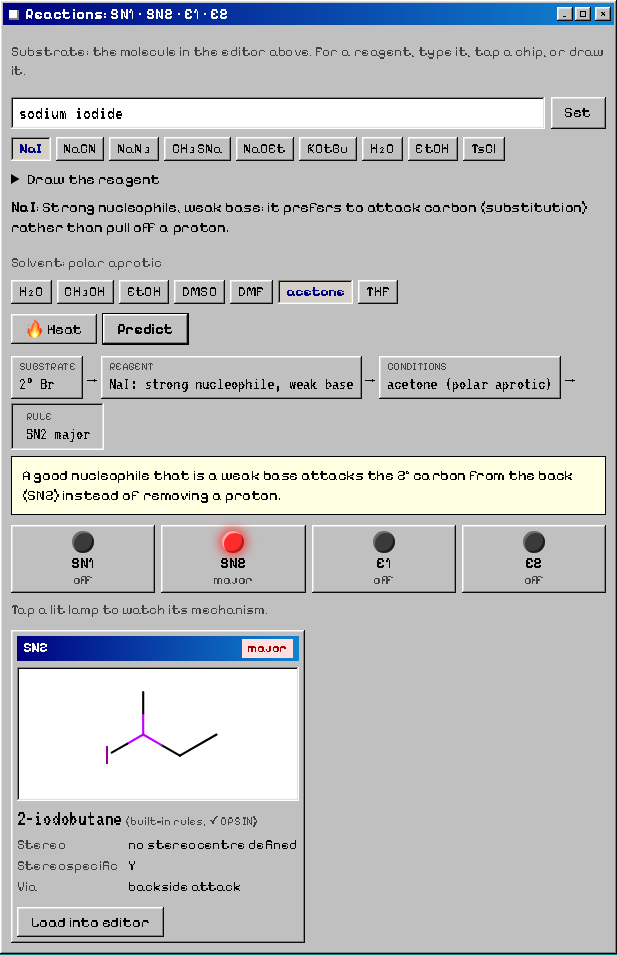
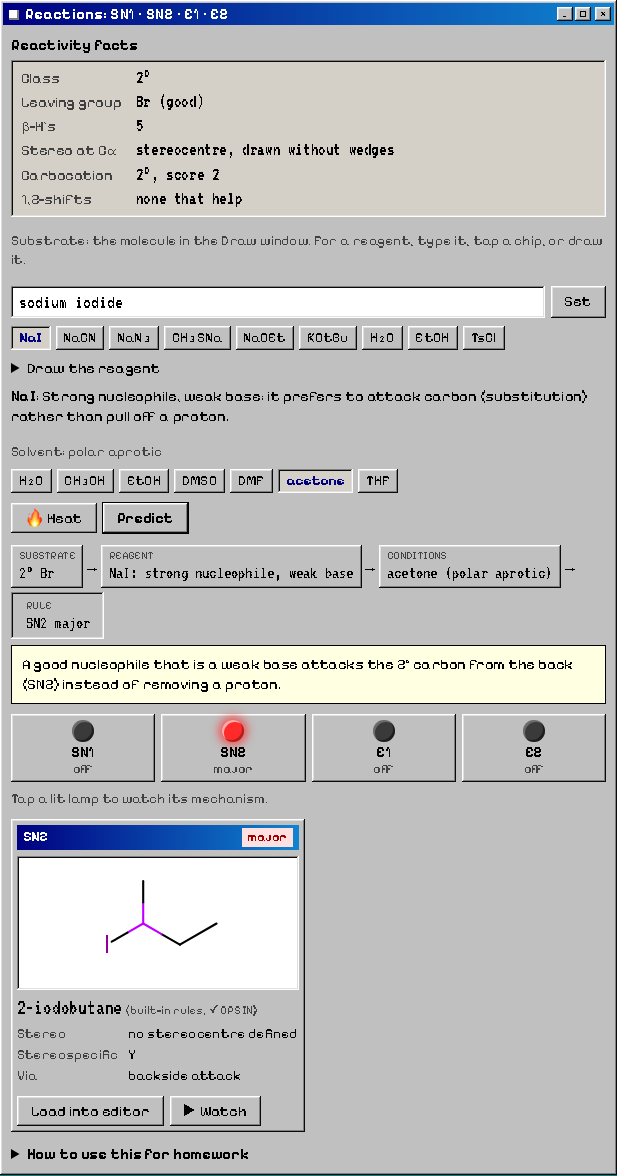
Give Reactions its own tab; add per-card Watch and a worksheet guide
Peter had to scroll past the name and viewer windows to reach the Reactions
window. A Molecule | Reactions tab now shows the Draw window next to the
Reactions window, and #reactions links straight there. The editor is shared,
so the substrate stays the same when switching tabs. Reactivity facts moved
into the Reactions window, because the Name card is hidden on that tab.

Harder worksheet problems (4, 5) give several products from one pathway (no
shift, methyl shift, ring expansion), but the lamp only opened the first.
Each result card now has a Watch button that opens its own pathway. That is
the hook Session 3's SN1/E1/E2 templates need.

docs/worksheet-guide.md says how to solve each worksheet problem with the
app, and the plan gains Session 3 prep notes: missing renderer features,
seed rows waiting on the answer key, and an open question for Peter about
ranking the problem 4 ethers.

Changed region(s): [[0.0, 0.0, 1.0, 1.0], [0.7391, 0.334, 0.893, 0.3644], [0.9238, 0.334, 0.9546, 0.3644]]

diff --git a/index.html b/index.html
@@ -103,9 +103,9 @@
 
   /* tabs */
   .tabs{display:flex;gap:0;padding:6px 4px 0 6px;flex-wrap:wrap;position:relative;z-index:1}
-  .tab{box-shadow:inset 1px 1px var(--hi), inset -1px 0 var(--dark), inset -2px 0 var(--shadow), inset 2px 2px var(--lite);padding:6px 12px 5px;margin-right:-1px;margin-top:3px;min-height:0;color:#000}
-  .tab:active:not(:disabled){box-shadow:inset 1px 1px var(--hi), inset -1px 0 var(--dark), inset -2px 0 var(--shadow), inset 2px 2px var(--lite);padding:6px 12px 5px}
-  .tab[aria-selected="true"]{margin-top:0;padding-bottom:9px;margin-bottom:-2px;background:var(--face);position:relative;z-index:2;font-weight:600}
+  .tab,.apptab{box-shadow:inset 1px 1px var(--hi), inset -1px 0 var(--dark), inset -2px 0 var(--shadow), inset 2px 2px var(--lite);padding:6px 12px 5px;margin-right:-1px;margin-top:3px;min-height:0;color:#000}
+  .tab:active:not(:disabled),.apptab:active:not(:disabled){box-shadow:inset 1px 1px var(--hi), inset -1px 0 var(--dark), inset -2px 0 var(--shadow), inset 2px 2px var(--lite);padding:6px 12px 5px}
+  .tab[aria-selected="true"],.apptab[aria-selected="true"]{margin-top:0;padding-bottom:9px;margin-bottom:-2px;background:var(--face);position:relative;z-index:2;font-weight:600}
   .tab .soon{font-size:12px;margin-left:4px;color:#606060}
   .panel{box-shadow:var(--raised);margin:0 4px 4px;padding:6px}
   .view{display:none}
@@ -167,6 +167,10 @@
   #net.show{display:block}
   .badge button{margin-left:auto;padding:4px 8px;min-height:24px;font-size:14px}
   #boot{position:fixed;inset:0;background:var(--desk);display:flex;align-items:center;justify-content:center;color:#fff;z-index:10;font:12px/1.6 var(--chunky)}
+  /* app sections: Molecule | Reactions */
+  .apptabs{display:flex;flex-wrap:wrap;padding:4px 6px 0;border-bottom:2px solid var(--hi)}
+  .apptab{font-size:15px}
+  main[data-app="mol"] .rx-only,main[data-app="rx"] .mol-only{display:none !important}
   /* reactions window */
   .rx-lab{font-size:14px;color:var(--muted);margin-top:8px}
   #rxReagentForm{margin-top:8px}
@@ -203,8 +207,12 @@
   .rx-src{font-size:12px;color:var(--muted)}
   .rx-dl{display:grid;grid-template-columns:auto 1fr;gap:2px 10px;margin:6px 0 0;font-size:14px}
   .rx-dl dt{color:var(--muted)} .rx-dl dd{margin:0}
-  .rx-facts{margin-top:10px}
+  .rx-facts{margin-bottom:6px}
   .rx-facth{font-weight:600;font-size:15px}
+  .rx-help{margin-top:12px;font-size:15px}
+  .rx-help summary{cursor:pointer;font-weight:600}
+  .rx-help ol{margin:6px 0 0;padding-left:22px}
+  .rx-help li{margin:4px 0}
   .rx-facts .facts{margin-top:4px}
   .rx-facts .facts dd{word-break:normal}
   .rx-ranklist{list-style:none;margin:10px 0 0;padding:0;display:flex;flex-direction:column;gap:6px}
@@ -281,10 +289,14 @@
   <div class="appbar">
     <div class="titlebar"><h1>MOLECULE LAB</h1><span class="wbtns" aria-hidden="true"><i>_</i><i>□</i><i>×</i></span></div>
     <p>Draw a molecule to get its IUPAC name, or type a name to build the structure. Explore it as a line drawing or in 3D.</p>
+    <nav class="apptabs" role="tablist" aria-label="Sections">
+      <button type="button" class="apptab" role="tab" data-app="mol" aria-selected="true">Molecule</button>
+      <button type="button" class="apptab" role="tab" data-app="rx" aria-selected="false">Reactions (SN1/SN2/E1/E2)</button>
+    </nav>
     <div id="net" role="status">You’re offline. Drawing, 3D and the calculated facts still work; naming needs a connection.</div>
   </div>
 </header>
-<main>
+<main data-app="mol">
   <div class="col">
     <section class="card">
       <div class="card-h"><h2>Build from a name</h2><span class="wbtns" aria-hidden="true"><i>_</i><i>□</i><i>×</i></span></div>
@@ -308,47 +320,7 @@
       </div>
     </section>
 
-    <section class="card" id="rxWin">
-      <div class="card-h"><h2>Reactions: SN1 · SN2 · E1 · E2</h2><span class="wbtns" aria-hidden="true"><i>_</i><i>□</i><i>×</i></span></div>
-      <div class="card-b">
-        <div id="rxRank" hidden>
-          <div class="msg warn" id="rxRankNote"></div>
-          <div class="row"><button type="button" id="rxRankSN1" aria-pressed="false">Rank by SN1 rate</button><button type="button" id="rxRankSN2" aria-pressed="false">Rank by SN2 rate</button></div>
-          <ol class="rx-ranklist" id="rxRankList"></ol>
-        </div>
-        <div id="rxMain">
-          <div class="rx-lab">Substrate: the molecule in the editor above. For a reagent, type it, tap a chip, or draw it.</div>
-          <div class="chips" id="rxSites" hidden></div>
-          <form class="search" id="rxReagentForm">
-            <input id="rxReagentInput" type="text" autocomplete="off" spellcheck="false" placeholder="Reagent, e.g. NaI, sodium ethoxide, KOtBu">
-            <button type="submit">Set</button>
-          </form>
-          <div class="chips" id="rxReagentChips"></div>
-          <details class="rx-drawbox" id="rxDrawBox"><summary>Draw the reagent</summary><div id="rxReagentEd"></div></details>
-          <div class="rx-info" id="rxReagentInfo"></div>
-          <div id="rxRoles" class="chips" hidden></div>
-          <div class="rx-lab">Solvent: <span id="rxSolventType"></span></div>
-          <div class="chips" id="rxSolvents"></div>
-          <div class="row"><button type="button" id="rxHeat" aria-pressed="false">🔥 Heat</button><button type="button" class="primary" id="rxPredict" disabled>Predict</button></div>
-          <div class="msg" id="rxMsg" hidden></div>
-          <div id="rxOut" hidden>
-            <div class="rx-path" id="rxPath"></div>
-            <div class="rx-pathinfo" id="rxPathInfo" hidden></div>
-            <div class="rx-lamps" id="rxLamps"></div>
-            <div class="rx-lab">Tap a lit lamp to watch its mechanism.</div>
-            <div id="rxNotes"></div>
-            <div class="rx-cards" id="rxCards"></div>
-          </div>
-        </div>
-      </div>
-    </section>
-
-    <section class="card" id="mechWin" hidden>
-      <div class="card-h"><h2 id="mechTitle">Mechanism</h2><span class="wbtns"><button type="button" id="mechClose" aria-label="Close mechanism">×</button></span></div>
-      <div class="card-b"><div id="mechMount"></div></div>
-    </section>
-
-    <section class="card">
+    <section class="card mol-only">
       <div class="card-h"><h2>Name &amp; properties</h2><span class="wbtns" aria-hidden="true"><i>_</i><i>□</i><i>×</i></span></div>
       <div class="card-b">
         <div class="namebox"><div id="iupac" class="result-name empty">Draw or build a molecule to start.</div>
@@ -361,11 +333,6 @@
           <dt>Stereo</dt><dd id="fStereo"></dd>
           <dt>SMILES</dt><dd class="mono" id="fSmiles"></dd>
         </dl>
-        <div class="rx-facts" id="rxFacts" hidden>
-          <div class="rx-facth">Reactivity facts</div>
-          <div class="chips" id="rxFactSites" hidden></div>
-          <dl class="facts" id="rxFactList"></dl>
-        </div>
         <div class="row">
           <button class="primary" id="nameItBtn" type="button" disabled>Get IUPAC name</button>
           <button id="copyBtn" type="button" disabled>Copy SMILES</button>
@@ -377,7 +344,7 @@
   </div>
 
   <div class="col">
-    <section class="card">
+    <section class="card mol-only">
       <div class="card-h"><h2>Viewer</h2><span class="wbtns" aria-hidden="true"><i>_</i><i>□</i><i>×</i></span></div>
       <div class="tabs" role="tablist">
         <button class="tab" role="tab" data-view="v3d" aria-selected="true">3D model</button>
@@ -429,6 +396,61 @@
         <div class="soon-view"><strong>Fischer projections are coming in stage 3</strong>For open chains with stereocentres, like sugars, amino acids and 2,3-dibromobutane, with R/S labels.</div>
       </div>
       </div>
+    </section>
+
+    <section class="card rx-only" id="rxWin">
+      <div class="card-h"><h2>Reactions: SN1 · SN2 · E1 · E2</h2><span class="wbtns" aria-hidden="true"><i>_</i><i>□</i><i>×</i></span></div>
+      <div class="card-b">
+        <div id="rxRank" hidden>
+          <div class="msg warn" id="rxRankNote"></div>
+          <div class="row"><button type="button" id="rxRankSN1" aria-pressed="false">Rank by SN1 rate</button><button type="button" id="rxRankSN2" aria-pressed="false">Rank by SN2 rate</button></div>
+          <ol class="rx-ranklist" id="rxRankList"></ol>
+        </div>
+        <div id="rxMain">
+          <div class="rx-facts" id="rxFacts" hidden>
+            <div class="rx-facth">Reactivity facts</div>
+            <dl class="facts" id="rxFactList"></dl>
+          </div>
+          <div class="rx-lab">Substrate: the molecule in the Draw window. For a reagent, type it, tap a chip, or draw it.</div>
+          <div class="chips" id="rxSites" hidden></div>
+          <form class="search" id="rxReagentForm">
+            <input id="rxReagentInput" type="text" autocomplete="off" spellcheck="false" placeholder="Reagent, e.g. NaI, sodium ethoxide, KOtBu">
+            <button type="submit">Set</button>
+          </form>
+          <div class="chips" id="rxReagentChips"></div>
+          <details class="rx-drawbox" id="rxDrawBox"><summary>Draw the reagent</summary><div id="rxReagentEd"></div></details>
+          <div class="rx-info" id="rxReagentInfo"></div>
+          <div id="rxRoles" class="chips" hidden></div>
+          <div class="rx-lab">Solvent: <span id="rxSolventType"></span></div>
+          <div class="chips" id="rxSolvents"></div>
+          <div class="row"><button type="button" id="rxHeat" aria-pressed="false">🔥 Heat</button><button type="button" class="primary" id="rxPredict" disabled>Predict</button></div>
+          <div class="msg" id="rxMsg" hidden></div>
+          <div id="rxOut" hidden>
+            <div class="rx-path" id="rxPath"></div>
+            <div class="rx-pathinfo" id="rxPathInfo" hidden></div>
+            <div class="rx-lamps" id="rxLamps"></div>
+            <div class="rx-lab">Tap a lit lamp to watch its mechanism.</div>
+            <div id="rxNotes"></div>
+            <div class="rx-cards" id="rxCards"></div>
+          </div>
+        </div>
+        <details class="rx-help">
+          <summary>How to use this for homework</summary>
+          <ol>
+            <li>Draw the substrate in the Draw window, or type its name or SMILES in “Build from a name”. Show stereo with wedges (Fischer projections can’t be drawn: redraw them with wedges).</li>
+            <li>Type the reagent (NaCN, sodium ethoxide, KOtBu…) or tap a chip. The usual solvent is filled in; change it to match the problem, and press 🔥 Heat if the problem says heat or a temperature.</li>
+            <li>Press Predict. Tap each box of the decision path to see the rule, then read the lamps: bright = major, dim = minor or competing, off = doesn’t happen.</li>
+            <li>Each result card gives the product, its name, R/S or E/Z and “Stereospecific Y/N”. Tap a lit lamp to step through the mechanism and press WHY? for the reasons.</li>
+            <li>Two steps (e.g. 1) TsCl, pyridine 2) NaCN): predict step 1, press “Load into editor” on its product, then set the step 2 reagent and predict again.</li>
+            <li>Ranking problems: draw all the molecules side by side in the Draw window, then press “Rank by SN1 rate” or “Rank by SN2 rate”.</li>
+          </ol>
+        </details>
+      </div>
+    </section>
+
+    <section class="card rx-only" id="mechWin" hidden>
+      <div class="card-h"><h2 id="mechTitle">Mechanism</h2><span class="wbtns"><button type="button" id="mechClose" aria-label="Close mechanism">×</button></span></div>
+      <div class="card-b"><div id="mechMount"></div></div>
     </section>
   </div>
 </main>

diff --git a/reactions-ui.js b/reactions-ui.js
@@ -76,7 +76,7 @@ export async function mountReactions(app){
 
   // ---------- reactivity facts + site chips ----------
   function renderSites(){
-    for (const box of [$('rxSites'), $('rxFactSites')]){
+    for (const box of [$('rxSites')]){
       box.hidden = st.sites.length < 2;
       box.replaceChildren();
       if (st.sites.length < 2) continue;
@@ -308,7 +308,8 @@ export async function mountReactions(app){
   }
 
   // ---------- result card ----------
-  function card(p, pw, extra){
+  // inMech: the copy shown inside the mechanism's last frame (no Watch button there)
+  function card(p, pw, extra, inMech = false){
     const div = document.createElement('div');
     div.className = 'rx-card';
     const out = st.res && st.res.pathways[pw];
@@ -329,8 +330,9 @@ export async function mountReactions(app){
         ${p.via ? `<dt>Via</dt><dd>${esc(p.via)}</dd>` : ''}
       </dl>
       ${extra ? `<div class="note">${esc(extra)}</div>` : ''}
-      <div class="row"><button type="button" class="rx-load">Load into editor</button></div>`;
+      <div class="row"><button type="button" class="rx-load">Load into editor</button>${out && !inMech ? '<button type="button" class="rx-watch">▶ Watch</button>' : ''}</div>`;
     nameLine(p.mol, div.querySelector('.rx-nameline'));
+    const w = div.querySelector('.rx-watch'); if (w) w.onclick = () => openPathway(pw, p);
     div.querySelector('.rx-load').onclick = () => { app.loadMolecule(p.mol.getCompactCopy()); $('editor').scrollIntoView({ behavior: smooth(), block: 'center' }); };
     return div;
   }
@@ -338,7 +340,9 @@ export async function mountReactions(app){
   // ---------- mechanism ----------
   function closeMech(){ if (st.mech){ st.mech.close(); st.mech = null; } $('mechWin').hidden = true; }
   $('mechClose').onclick = closeMech;
-  function openPathway(pw){
+  // pw's mechanism for one product (default: its first, i.e. the major one). Several products of one
+  // pathway (SN1 with/without a shift, E2 Zaitsev/Hofmann) each get a Watch button, so each can be followed.
+  function openPathway(pw, chosen){
     const res = st.res; if (!res) return;
     closeMech();
     const out = res.pathways[pw];
@@ -353,7 +357,7 @@ export async function mountReactions(app){
       mount.innerHTML = `<div class="msg warn">${esc(fill(texts.ui.comingSoon, { pw }))}</div>`;
       win.scrollIntoView({ behavior: smooth(), block: 'start' }); return;
     }
-    const p = out.products[0], site = res.site, r = st.reagent;
+    const p = chosen || out.products[0], site = res.site, r = st.reagent;
     const nuMol = r.nu.mol || OCL.Molecule.fromSmiles(r.nu.smiles);
     const Nu = speciesText(r);
     const nuAtom = nuMol.getAtomLabel(r.nu.atom);
@@ -362,7 +366,7 @@ export async function mountReactions(app){
       nu: { atom: nuAtom, rest: nuMol.getAtoms() > 1 ? `(${Nu})` : '', charged: Nu.endsWith('⁻') },
       vars: { Nu, LG: site.lg, class: CLS_TEXT[site.cls], stereo: sn2Stereo(site, r, p) },
       productName: nameOf(p.mol).then((n) => n.name || n.why),
-      resultCard: () => card(p, pw),
+      resultCard: () => card(p, pw, undefined, true),
     });
     win.scrollIntoView({ behavior: smooth(), block: 'start' });
   }
@@ -383,6 +387,20 @@ export async function mountReactions(app){
       return fill(to === site.stereo ? S.inversion_same : S.inversion, { from: site.stereo, to });
     } catch { return ''; }
   }
+
+  // ---------- Molecule | Reactions sections (remembered per viewer; #reactions links straight here) ----------
+  function setApp(tab, remember = true){
+    document.querySelector('main').dataset.app = tab;
+    for (const b of document.querySelectorAll('.apptab')) b.setAttribute('aria-selected', String(b.dataset.app === tab));
+    if (remember){
+      try { localStorage.setItem('ml-app-tab', tab); } catch {}
+      history.replaceState(null, '', tab === 'rx' ? '#reactions' : location.pathname + location.search);
+    }
+    window.dispatchEvent(new Event('resize')); // 3D viewers and the editor size themselves on resize
+  }
+  for (const b of document.querySelectorAll('.apptab')) b.onclick = () => setApp(b.dataset.app);
+  let saved = null; try { saved = localStorage.getItem('ml-app-tab'); } catch {}
+  setApp(location.hash === '#reactions' ? 'rx' : saved === 'rx' ? 'rx' : 'mol', false);
 
   document.addEventListener('ml:molecule', (e) => onMolecule(e.detail));
   onMolecule(app.getMol());

diff --git a/sw.js b/sw.js
@@ -1,7 +1,7 @@
 // Molecule Lab service worker: keeps the whole app on the device so drawing, 3D and
 // the calculated facts work offline. Naming lookups (PubChem, OPSIN) always go to the network.
 // Bump VERSION whenever any file below changes, so phones pick up the new copy.
-const VERSION = 'molecule-lab-v6';
+const VERSION = 'molecule-lab-v7';
 const ASSETS = [
   './',
   './index.html',

diff --git a/docs/worksheet-guide.md b/docs/worksheet-guide.md
@@ -1,0 +1,29 @@
+# Using Molecule Lab for the Chemistry 2310 Ch 6 worksheet
+
+Open the **Reactions** tab at the top of the app (or go to `…/molecule-lab/#reactions`). It shows the Draw window next to the Reactions window, so you don't have to scroll between them.
+
+## The basic routine (every problem)
+1. **Substrate:** draw it in the Draw window, or type a name or SMILES in "Build from a name". Use wedges for stereo. The editor can't draw Fischer projections, so redraw a Fischer projection with wedges first (horizontal bonds = wedges towards you, vertical bonds = dashes going away).
+2. **Reagent:** type it (`NaCN`, `sodium ethoxide`, `CH3SNa`, `SOCl2`…), tap a chip, or open "Draw the reagent". Its usual solvent is filled in for you. **Change the solvent to match the problem.**
+3. **Heat:** press 🔥 Heat if the problem says "heat", "Δ" or gives a temperature above room temperature.
+4. **Predict.** Tap each box of the decision path (substrate → reagent → conditions → rule) to see the rule it used. Then read the lamps: bright = major, dim = minor, orange = competing, off = doesn't happen.
+5. **Answer:** each result card shows the product, its name, R/S or E/Z, major/minor and **Stereospecific Y/N**. Press **▶ Watch** (or tap a lit lamp) to step through the mechanism, and press **WHY?** for the reasons. Right now only SN2 is animated; SN1, E1 and E2 animations come next.
+6. **Write the answer yourself first**, then check it with the app. The "Reactivity facts" box (class, leaving group, β-H's, carbocation and possible shifts) is a good place to check your reasoning.
+
+## Problem by problem
+
+| Problem | What to enter | What to look for |
+|---|---|---|
+| **3a** 2-iodobutane (Fischer) + NaCN, DMSO | Redraw with a wedge; reagent `NaCN`, solvent DMSO | SN2 lamp; the card gives the nitrile with the opposite configuration; Stereospecific **Y** |
+| **3b** 2° alcohol + SOCl₂, pyridine | Draw the alcohol with its wedge; reagent `SOCl2` (pyridine fills in) | SN2: the alkyl chloride with inversion |
+| **3c** 2° allylic chloride + NaOCH₃, THF, 40 °C | Reagent `NaOCH3`; tap **THF** (the default is MeOH) | SN2 major with inversion, E2 competing, Stereospecific **Y** (as in your solutions) |
+| **3d** (1-bromoethyl)benzene + CH₃OH, 80 °C | Reagent `CH3OH`, solvent MeOH, **Heat on** | SN1 major, racemic ether, Stereospecific **N**; E1 competing |
+| **3e** 1-iodo-4-isopropylcyclohexane + NaN₃, DMF | Draw cis or trans with wedges; reagent `NaN3`, solvent DMF | SN2: the other diastereomer (cis ↔ trans) |
+| **3f** 2° alcohol + 1) TsCl, pyridine 2) NaCN, DMF | Step 1: reagent `TsCl` → Predict → **Load into editor** on the tosylate card. Step 2: reagent `NaCN`, solvent DMF → Predict | Step 1 keeps the configuration (the C–O bond isn't touched); step 2 is SN2 with inversion |
+| **4a–c** 1-(1-bromoethyl)-1-methylcyclopentane, EtOH, heat | Reagent `EtOH`, solvent EtOH, **Heat on** | SN1 cards for **no shift**, **methyl shift** and **ring expansion**: all three ethers are answers. The app ranks them by carbocation stability (ring expansion first); your answer key doesn't rank them. |
+| **5** cyclohexyl/cyclopentyl bromide, EtOH, heat | Same as 4 | Shifted ether (more stable cation) = major, unshifted = minor |
+| **6, 7** rank five halides | Draw all five side by side in one Draw window | The window switches to ranking mode: press **Rank by SN1 rate** or **Rank by SN2 rate**. Each place shows its reason; ties are shown as ties |
+| **8** (S)-2-chloropentane + CH₃SNa, DMSO | Draw with a wedge; tap the `CH₃SNa` chip | Tap the SN2 lamp: step 2 shows the two curved arrows to copy, step 3 the transition state, and the last step the product with its R/S worked out |
+
+## When the app says "not covered yet"
+It means the rules don't cover that case, so the app won't guess. Examples: neopentyl substrates, E2 where both carbons' stereo decides E/Z, and ring contraction. Work these out from your notes or ask in class.

diff --git a/CLAUDE.md b/CLAUDE.md
@@ -22,12 +22,13 @@ Live at https://fz6sgp5jhw-commits.github.io/molecule-lab/ (GitHub Pages serves 
 | `reactivity.js` | SN/E analyser: `analyse` (sites, roles, class, flags, β-H's, cation score), `cationPathways` (1,2-shifts, ring expansion, allylic), `alkenesFrom`, `buildProduct` (graph edits with stereo kept by OpenChemLib) |
 | `reagents.js`, `data/reagents.json` | Reagent catalogue: name/alias and drawn-structure matching (counter-ions stripped), solvents, unknown-reagent guess |
 | `predict.js`, `data/rules.json` | Decision table → lamps (SN1/SN2/E1/E2) + products, sequences, SN1/SN2 rate ranking |
-| `reactions-ui.js` | Reactions window: reagent entry (type/chip/draw, unknown → estimated role), solvent + heat, Predict, decision path, lamps, result cards, Reactivity facts, site chips, ranking mode. Mounted from `index.html`; listens for the `ml:molecule` event |
+| `reactions-ui.js` | Reactions window: reagent entry (type/chip/draw, unknown → estimated role), solvent + heat, Predict, decision path, lamps, result cards, Reactivity facts, site chips, ranking mode. Mounted from `index.html`; listens for the `ml:molecule` event; also switches the Molecule / Reactions app tabs (`.mol-only` / `.rx-only` cards) |
 | `mech-view.js`, `mech-templates.js`, `data/mech-text.json` | Mechanism viewer (SVG frames on fixed atom positions, density clouds, pull line, hill + ball, stability meter, RPG dialog with WHY pages and glossary); templates per mechanism as data (SN2 so far); all teaching text |
 | `sw.js` | Service worker: precaches the app; PubChem and OPSIN are network-only |
 | `manifest.webmanifest`, `icons/` | Installable app (display: standalone) |
 | `fonts/` | Local Press Start 2P, Pixelify Sans, VT323 |
 | `tests/` | `namer.test.mjs` (Node, 193 cases), `app.test.mjs` and `chair-ui.test.mjs` (Playwright, with fake PubChem/OPSIN responses), `chair.test.mjs` (energy report), `reactions.test.mjs` (Node, table-driven from `seed-cases.json`), `reactions-ui.test.mjs` (Playwright: NaI + 2-bromobutane → SN2 walkthrough; `SHOTS=1` refreshes `docs/screens/`) |
+| `docs/worksheet-guide.md` | How to solve each Ch 6 worksheet problem with the Reactions tab (for Peter; update when behaviour changes) |
 | `docs/mechanisms-plan.md` | **Next feature:** SN1/SN2/E1/E2 learning mode. Read this before starting on it. |
 
 ## Useful OpenChemLib facts (learned the hard way)

diff --git a/docs/mechanisms-plan.md b/docs/mechanisms-plan.md
@@ -224,6 +224,10 @@ Grouped so each session ends with something usable, and so all the chemistry log
 - **Then Peter reviews the look once, with all changes in one message.**
 
 #### Session 3: The other mechanisms + quiz (Opus, high effort)
+- **Prep from Session 2 (done 2026-11-07):** the Reactions window is its own app tab (Molecule | Reactions, `#reactions` links to it). Each result card has **▶ Watch**, which opens that card's own pathway, so an SN1 with three shift pathways (worksheet 4) or Zaitsev/Hofmann E2 products can each be animated. `docs/worksheet-guide.md` lists how to solve each worksheet problem with the app; keep it current when behaviour changes.
+- **What the renderer still needs** (`drawFrame` in `mech-view.js` only knows roles nu, ca, lg): the base and Hβ (drawn as an explicit H on Cβ) for E2/E1; a C=C forming between Cα and Cβ (`bonds: { 'ca-cb': 'double' }`); C⁺ with an empty p orbital; the shifting group moving along an arc (the one time an atom moves); and a resonance frame with two structures for allylic cations. The hill already does two humps (`humps: 2`). Add these as new frame fields, not as special cases per mechanism.
+- **Seed rows still missing:** 3a, 3b, 3e, 5, 6, 7 and 8 need their exact structures and the answers from Peter's answer key before they go into `tests/seed-cases.json` (W3c, W3d, W4, S1-ring and 17 are already there).
+- **Ask Peter:** worksheet 4 doesn't rank its three ethers, but the app ranks them by cation score (ring expansion major). Keep the ranking, or show them all as "products" with no major/minor when shifts are involved?
 - Apply Peter's review changes first.
 - Templates for SN1 (shift as an inserted sub-step; allylic resonance frame with two products), E1, E2 (Zaitsev/Hofmann), alcohol activation preludes (protonation, PBr₃, SOCl₂, TsCl).
 - Quiz points (they are template data) + the Quiz me toggle; competing-path offer at the end.
